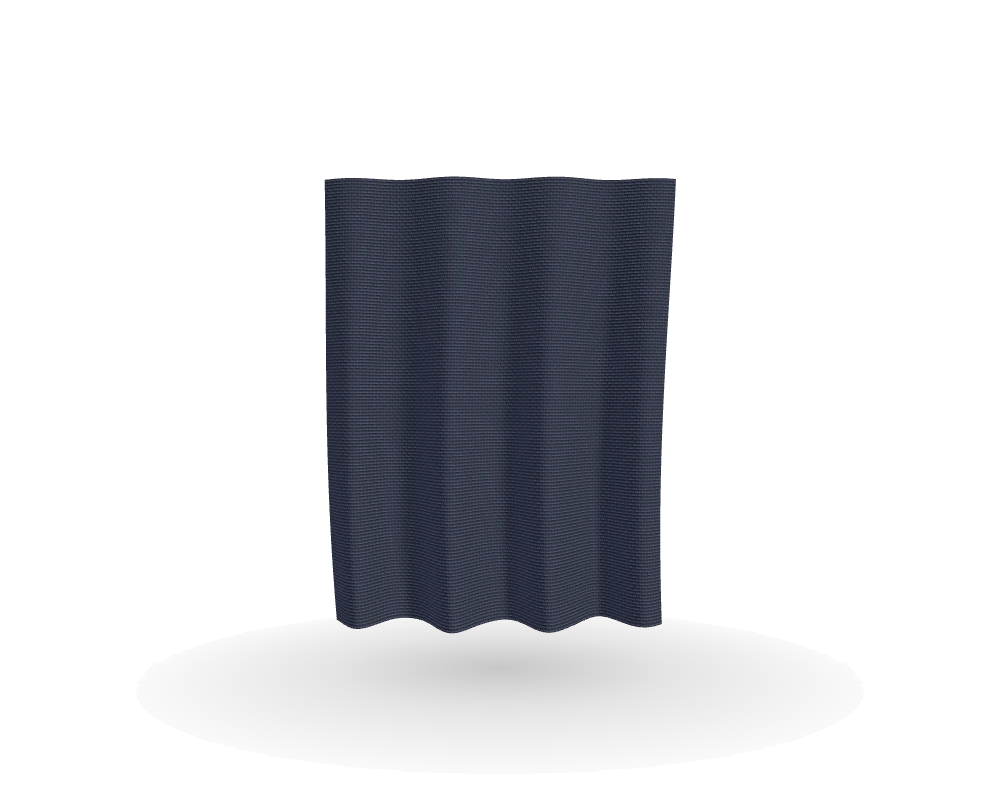
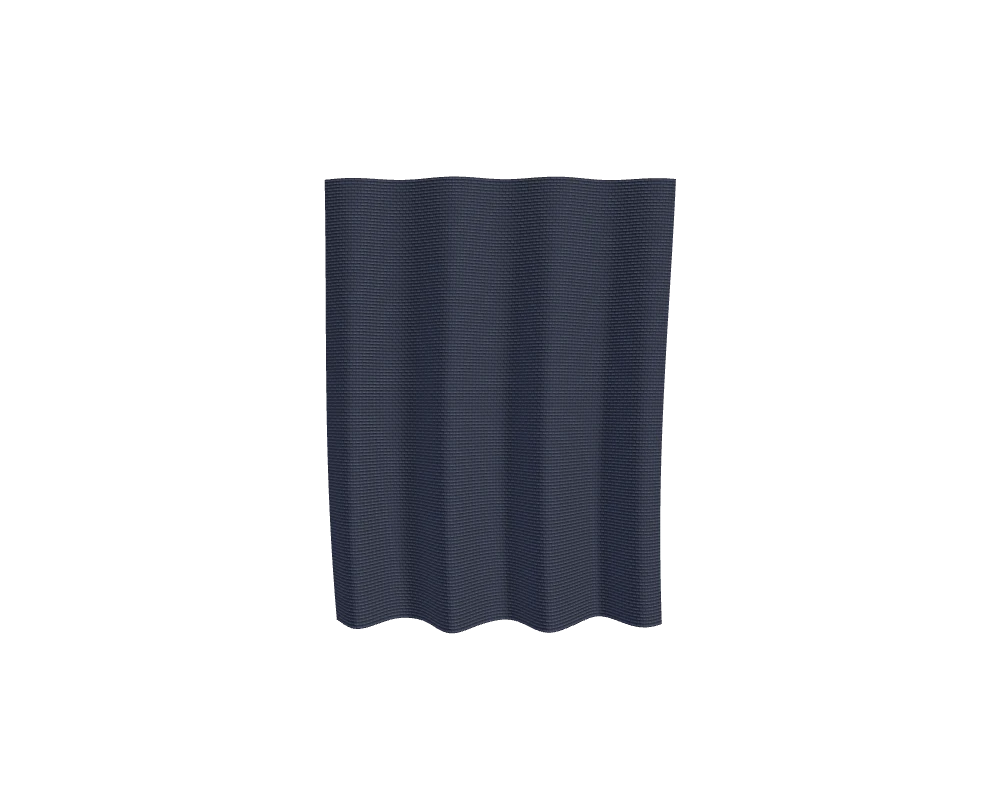
Act on the Codex re-review: shadow, strip affordance, labels, signature
- Textiles: remove the soft ground shadow under the 3D cloth (and from the
  poster capture), which broke the direction's no-shadows rule. Poster
  re-rendered.
- Swatch book: each strip gets a plus that turns into a minus when open, so
  closed strips read as openable without relying on the instruction text.
- Enquiry: 'Prefer email?' and the 'required' markers move from mono
  uppercase to the sans; field numbers stay mono (numbers only).
- Direction: the bandhani dots are the only *decorative* divider; hairlines
  stay where they do a job (tables, lists, form fields, nav edge).

Changed region(s): [[0.31, 0.7812, 0.682, 0.9062]]

diff --git a/src/styles/dyehouse.css b/src/styles/dyehouse.css
@@ -524,3 +524,48 @@
 /* Focus inside a dyed strip uses the strip's own text colour, which is
    already contrast-checked against that dye. */
 .strip :focus-visible { outline-color: var(--strip-fg); }
+
+/* ---- Strip marker: a plus that turns into a minus when the strip is open -- */
+.strip__toggle { position: relative; }
+.strip__marker {
+  position: absolute;
+  top: clamp(0.9rem, 1.4vw, 1.25rem);
+  right: clamp(0.9rem, 1.4vw, 1.25rem);
+  width: 12px;
+  height: 12px;
+}
+.strip__marker::before,
+.strip__marker::after {
+  content: '';
+  position: absolute;
+  left: 0;
+  top: 5px;
+  width: 12px;
+  height: 2px;
+  background: currentColor;
+  transition: transform 300ms var(--ease-out);
+}
+.strip__marker::after { transform: rotate(90deg); }
+.strip[data-open='true'] .strip__marker::after { transform: rotate(0deg); }
+.strip__num { padding-right: 1.5rem; }
+
+@media (max-width: 760px) {
+  .strip__marker { top: 50%; margin-top: -6px; right: calc(7% + 0.9rem); }
+  .strip[data-open='true'] .strip__marker { right: 1rem; top: 1.45rem; margin-top: 0; }
+}
+@media (prefers-reduced-motion: reduce) { .strip__marker::after { transition: none; } }
+
+/* ---- Enquiry: the last mono-uppercase labels move to the sans ----------- */
+.enquiry-hero__aside-label,
+.field__req {
+  font-family: var(--f-sans);
+  text-transform: none;
+  letter-spacing: 0;
+  font-size: var(--fs-small);
+  color: var(--fg-mute);
+}
+/* Field numbers stay as numerals: mono is for numbers. */
+.field__num { letter-spacing: 0; color: var(--fg-mute); }
+@media (max-width: 760px) {
+  .strip[data-open='true'] .strip__toggle { padding-right: 2.75rem; }
+}

diff --git a/src/dev/PosterCapture.tsx b/src/dev/PosterCapture.tsx
@@ -8,7 +8,7 @@ import { Canvas, useFrame, useThree } from '@react-three/fiber'
 import { GlobeScene } from '../three/GlobeScene'
 import { Exhibit } from '../three/Gallery'
 import { CategoryStudio } from '../three/CategoryStudio'
-import { ClothPanel, Ground, Lights, Studio } from '../three/objects'
+import { ClothPanel, Lights, Studio } from '../three/objects'
 import { SceneContext } from '../three/SceneSession'
 import { CommoditySamples } from '../three/SourcingSamples'
 import { CATEGORY_OBJECTS } from '../three/categoryObjects'
@@ -128,7 +128,7 @@ export default function PosterCapture() {
           ) : (
             <>
               <Studio />
-              {globe ? <GlobeScene compact={width/height < 1.5} /> : <><Lights intensity={1.02}/><Ground y={-1.35} scale={4} opacity={.4}/><group scale={.82}><ClothPanel palette="indigo" width={2.15} height={2.7} folds={3.4} seed={3.8} threads={16}/></group></>}
+              {globe ? <GlobeScene compact={width/height < 1.5} /> : <><Lights intensity={1.02}/><group scale={.82}><ClothPanel palette="indigo" width={2.15} height={2.7} folds={3.4} seed={3.8} threads={16}/></group></>}
               <InspectModel motif={motif} params={params}/>
               <CaptureReady ready={complete}/>
             </>

diff --git a/src/three/TextileHeroScene.tsx b/src/three/TextileHeroScene.tsx
@@ -2,7 +2,7 @@ import React from 'react'
 import { useThree } from '@react-three/fiber'
 import { useCompactLayout } from '../components/useCompactLayout'
 import { StageScene } from './Stage'
-import { ClothPanel, Draggable, Ground, Lights, Studio, getTextile } from './objects'
+import { ClothPanel, Draggable, Lights, Studio, getTextile } from './objects'
 
 /* ==========================================================================
    The textiles page's 3D, on its own.
@@ -26,7 +26,6 @@ function TextileObject({ aside = false }: { aside?: boolean }) {
     <>
       <Studio />
       <Lights intensity={1.02} />
-      <Ground y={-1.35} scale={4} opacity={0.4} />
       {/* Spinning slowly on its own so the cloth reads as material in motion;
           a drag adds to that angle instead of stopping it. */}
       <Draggable drift={compact ? 0.22 : 0.18} tilt={0.4} float={0.03} spin={compact ? 0 : Math.PI * 2 / 52} yawLimit={compact ? .65 : undefined}>

diff --git a/src/styles/tokens.css b/src/styles/tokens.css
@@ -9,7 +9,9 @@
               turmeric, cloth drying in strips, tied-resist dots, chalk tallies.
    Moment:    the swatch book on the homepage: six dyed cloth strips, one per
               category, that open into that category's brief.
-   Signature: a row of bandhani dots, the only divider on the site.
+   Signature: a row of bandhani dots, the only decorative divider on the
+              site. Plain hairlines stay only where they do a job: table
+              rows, list rows, form fields and the nav edge.
    Concept:   every colour on the page is a dye with a job. Empty is undyed
               cotton; choosing a category dyes it; nothing is coloured for
               decoration.

diff --git a/src/components/SwatchBook.tsx b/src/components/SwatchBook.tsx
@@ -54,6 +54,7 @@ export function SwatchBook() {
                     <span className="strip__num">{String(i + 1).padStart(2, '0')}</span>
                     <span className="strip__label">{item.label}</span>
                     <span className="strip__dye">{dye.name}</span>
+                    <span className="strip__marker" aria-hidden="true" />
                   </button>
                 </h3>
                 <div
